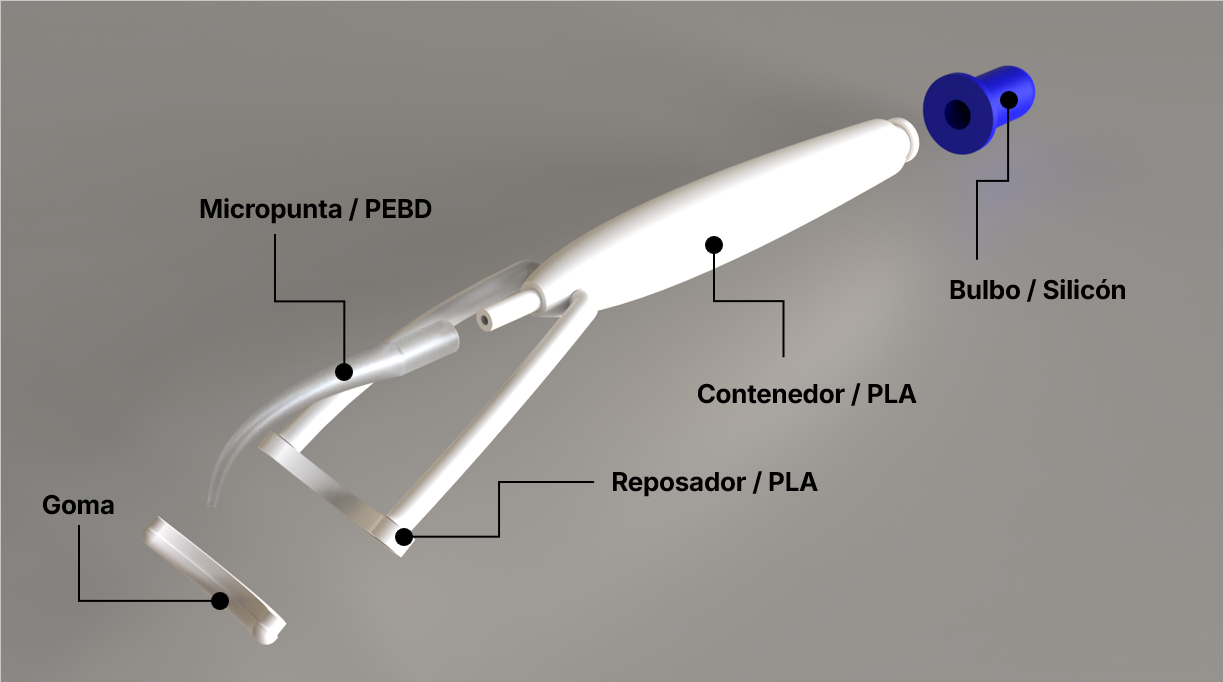
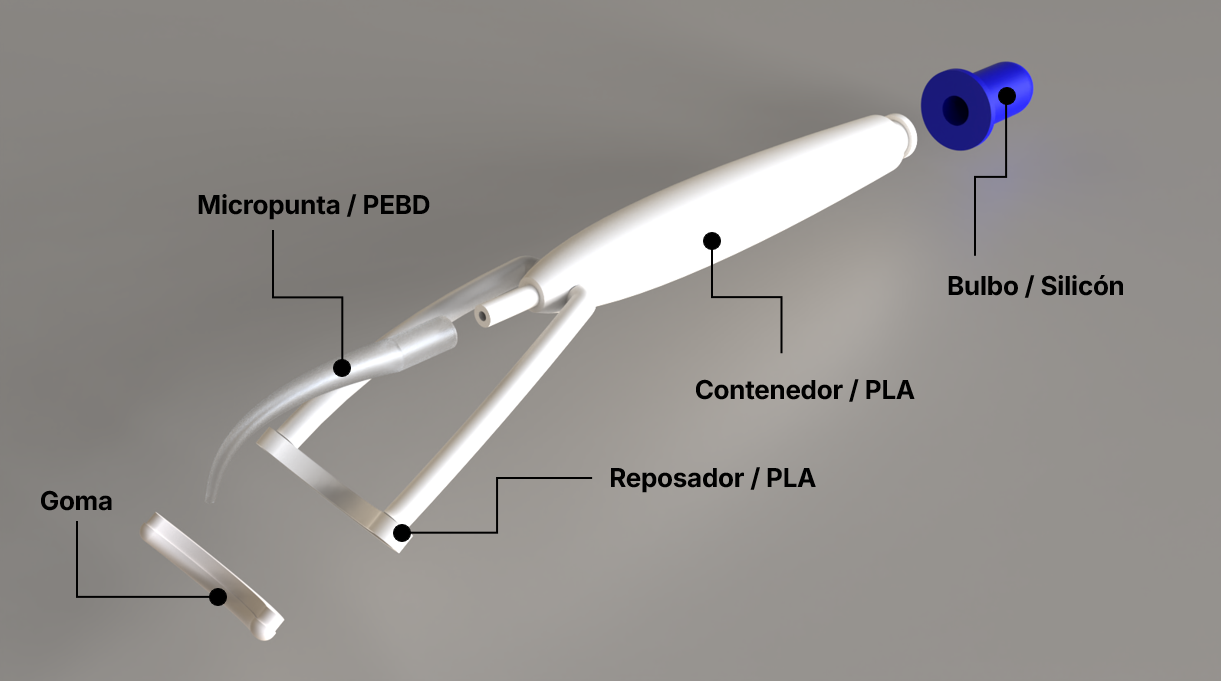
Quartz sync: Jun 18, 2026, 5:23 PM

diff --git a/content/Simpleyed.md b/content/Simpleyed.md
@@ -1,7 +1,7 @@
 ![[Secuencia de uso.png]]
 
+![[partes.png]]
 
-![[Partes.png|697]]
 
 ![[Gotero_2.9.png]]
 
